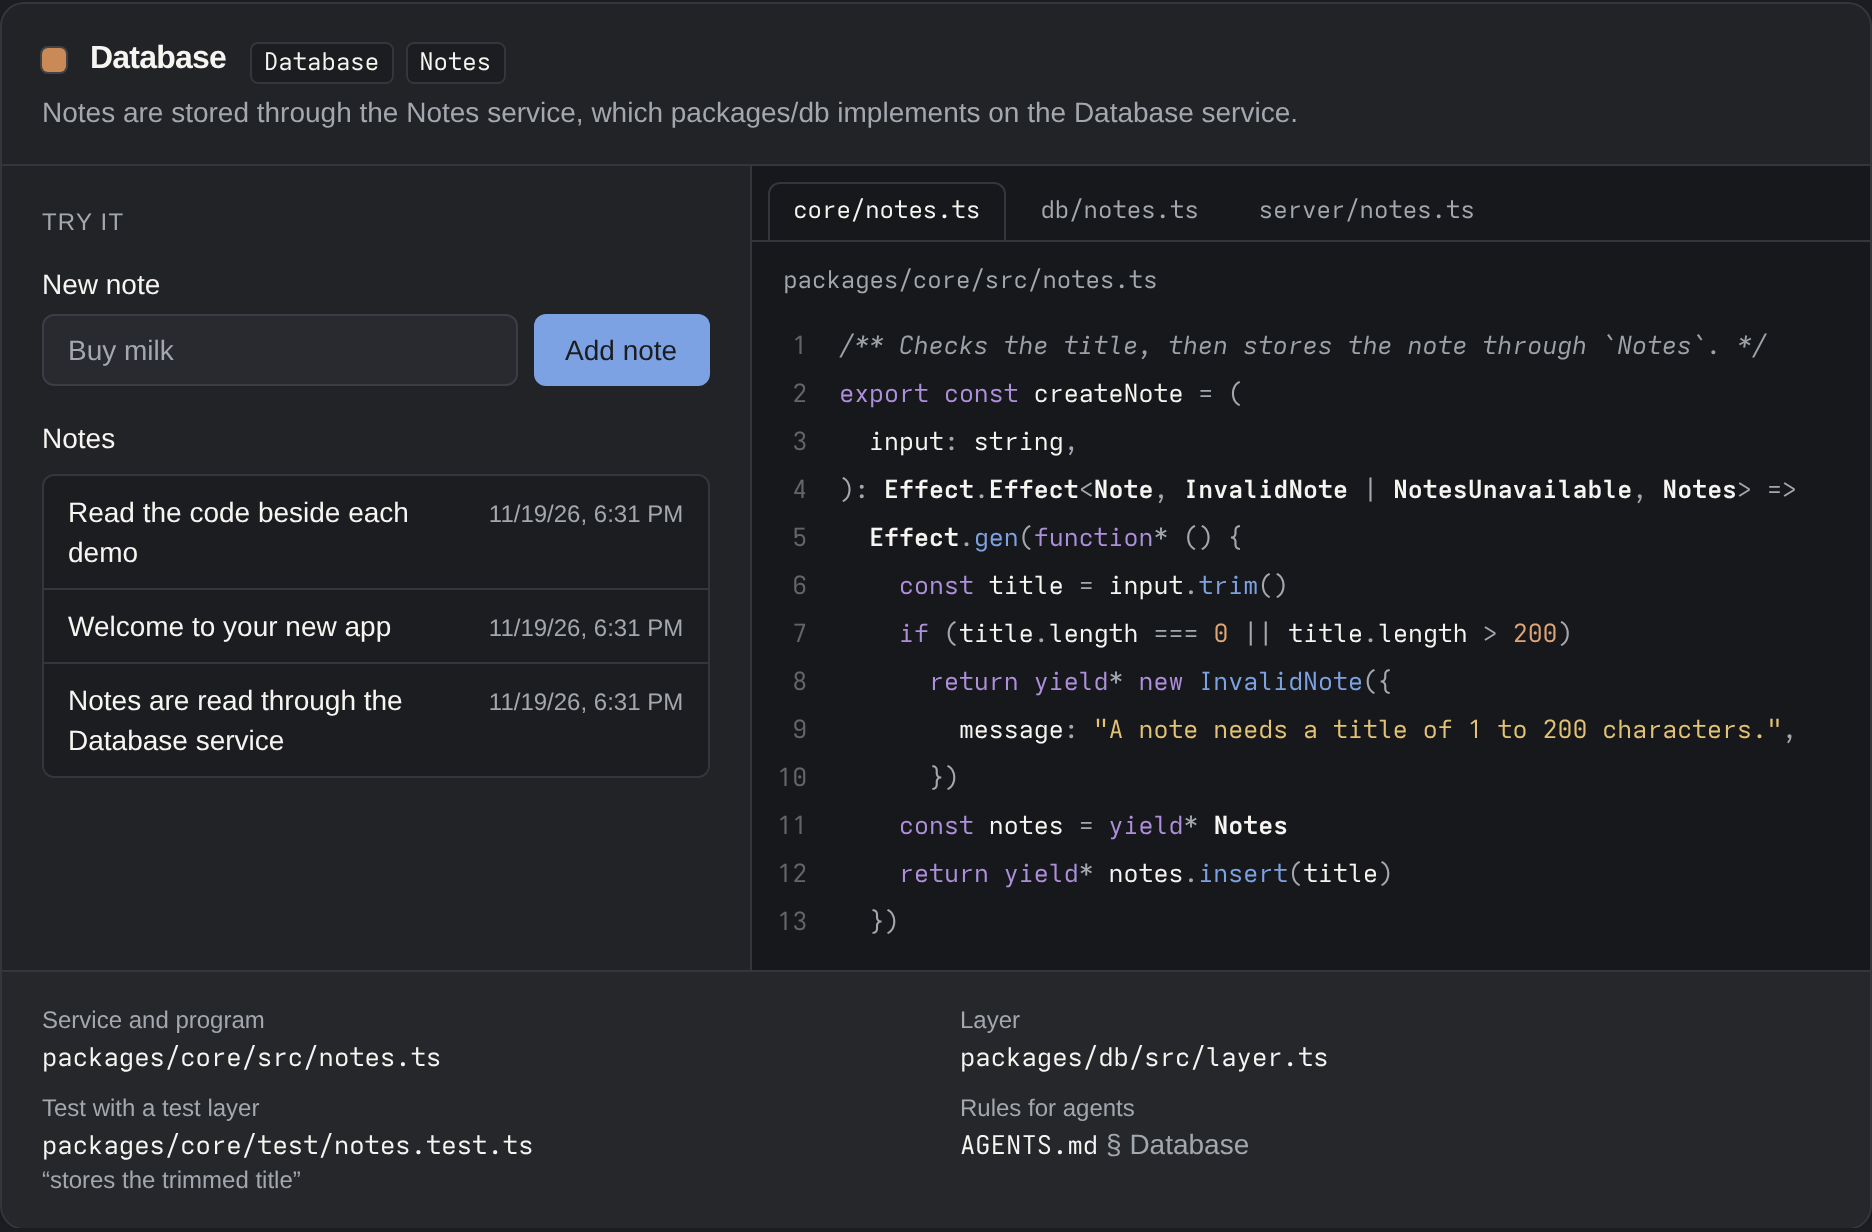
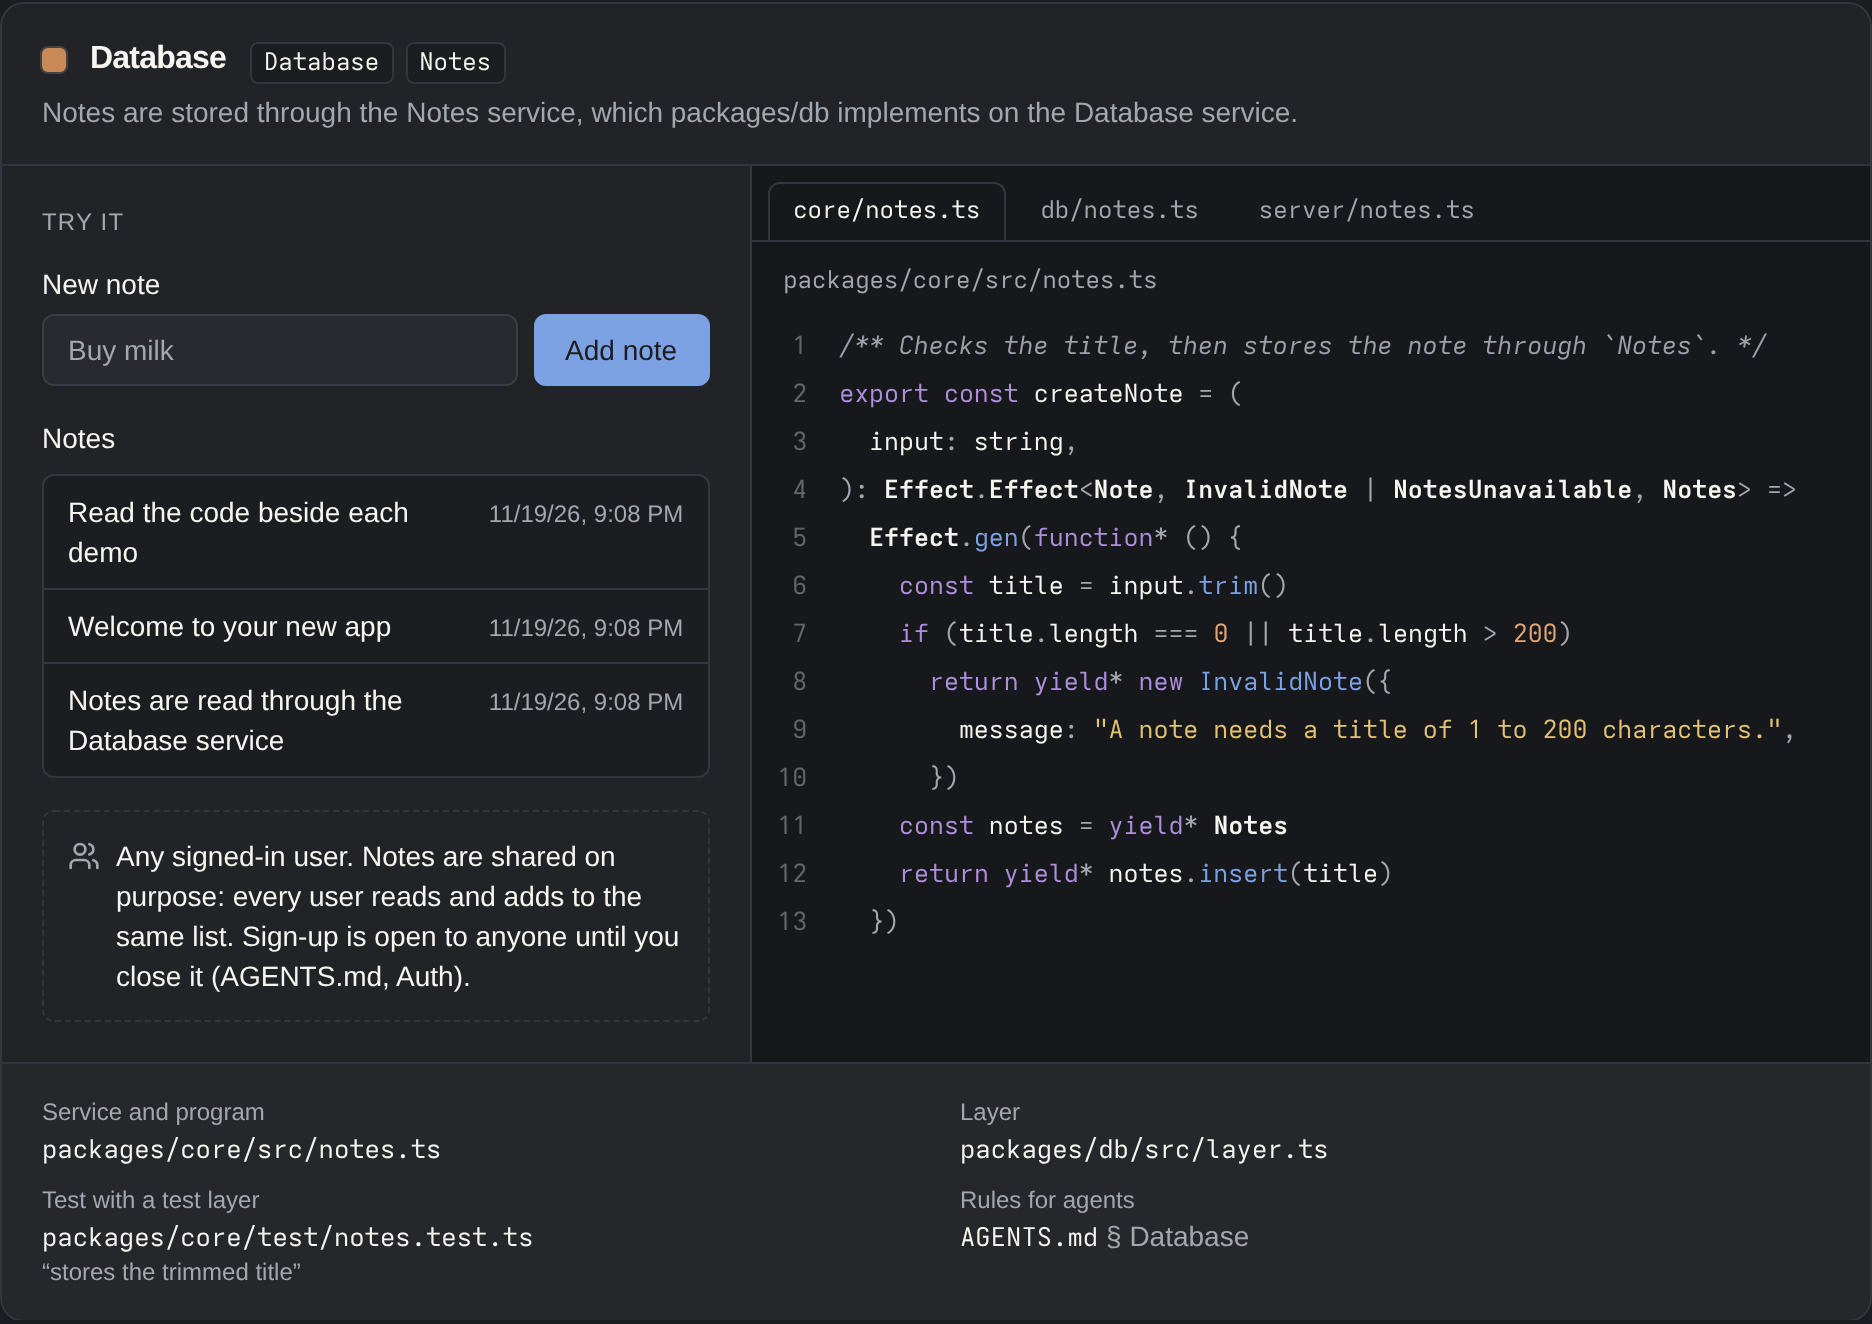
README pictures retaken from this checkout: the database card with next's colours and its who-can-call-it note, light and dark; the demo types npx -y create-efforge add email and shows the email card add now writes. readme:screenshots builds with the CLI it runs in (no --cli)

diff --git a/scripts/readme-screenshots.ts b/scripts/readme-screenshots.ts
@@ -9,10 +9,10 @@ import { chromium, type Page } from "playwright"
 /**
  * `pnpm readme:screenshots`: the dashboard pictures at the top of README.md, light and dark.
  *
- *   pnpm readme:screenshots [--cli <efforge checkout>] [--out <dir>] [--dir <work dir>] [--keep]
+ *   pnpm readme:screenshots [--out <dir>] [--dir <work dir>] [--keep]
  *
- * It generates `my-app` with D1, Better Auth, AI and every extra (with `node <cli>/src/bin.ts`,
- * default: this checkout), migrates the local D1, starts `pnpm dev` on a free port, signs up, adds
+ * It generates `my-app` with D1, Better Auth, AI and every extra, with the CLI of the checkout it
+ * runs in (`node src/bin.ts`), migrates the local D1, starts `pnpm dev` on a free port, signs up, adds
  * a note, and writes `.github/assets/dashboard-light.png` and `dashboard-dark.png`: the database
  * card, its demo beside the code behind it. Then it stops the server and deletes the project.
  *
@@ -24,7 +24,6 @@ import { chromium, type Page } from "playwright"
 
 const { values } = parseArgs({
   options: {
-    cli: { type: "string" },
     out: { type: "string" },
     dir: { type: "string" },
     keep: { type: "boolean", default: false },
@@ -32,7 +31,6 @@ const { values } = parseArgs({
 })
 
 const repo = join(import.meta.dirname, "..")
-const cli = resolve(values.cli ?? repo)
 const out = resolve(values.out ?? join(repo, ".github/assets"))
 const base = resolve(values.dir ?? tmpdir())
 mkdirSync(base, { recursive: true })
@@ -139,7 +137,7 @@ const optimise = (files: ReadonlyArray<string>) => {
 
 let dev: ReturnType<typeof spawn> | undefined
 try {
-  run("node", [join(cli, "src/bin.ts"), "my-app", ...stack], work)
+  run("node", [join(repo, "src/bin.ts"), "my-app", ...stack], work)
   run("pnpm", ["db:migrate"], app)
   const port = await freePort()
   // its own process group (pnpm -> vite -> workerd), so stopping it stops all of it
